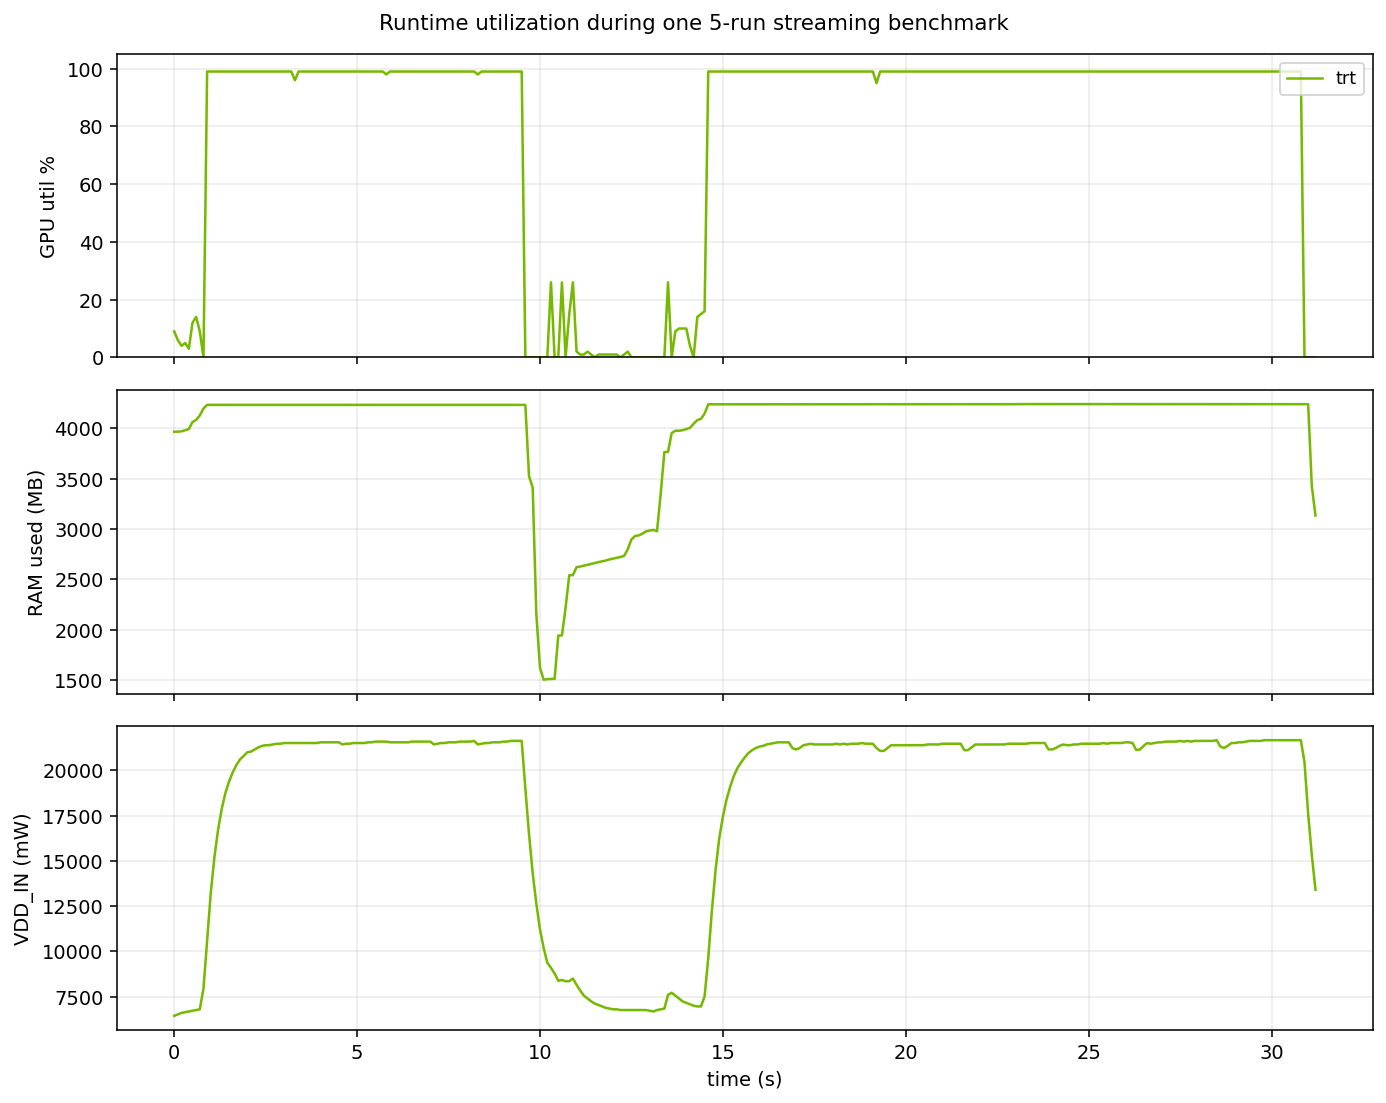
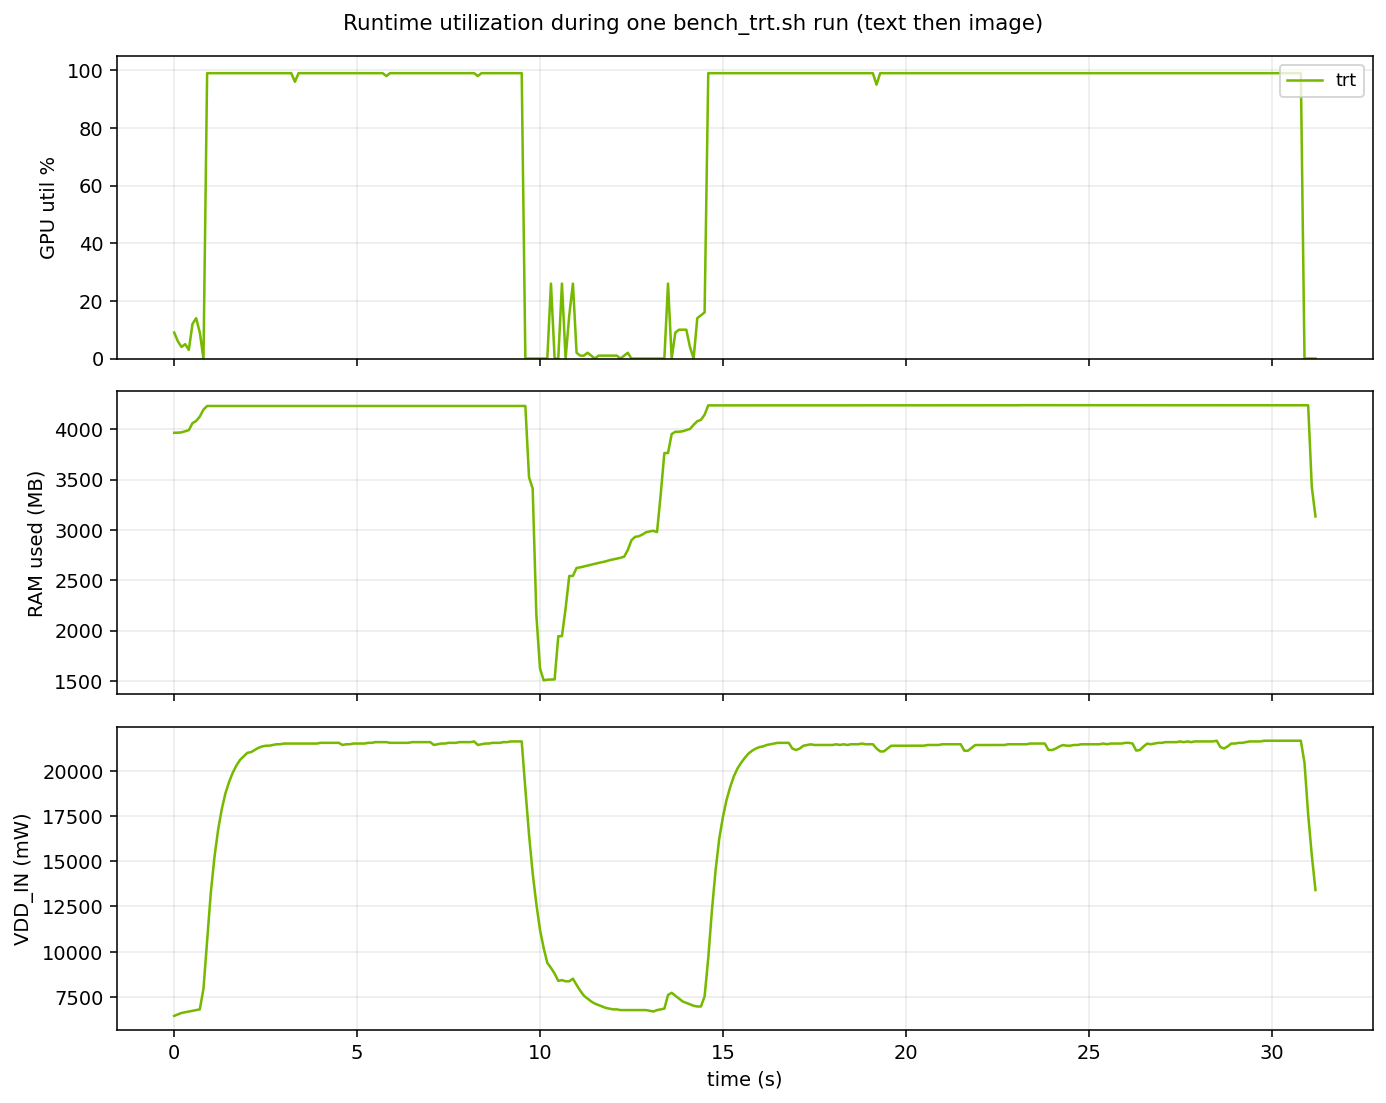
final update

diff --git a/vlm-benchmarks/index.html b/vlm-benchmarks/index.html
@@ -218,7 +218,7 @@
 
         <div class="tldr">
             <strong>TL;DR</strong><br><br>
-            I benchmarked Cosmos-Reason2-2B, NVIDIA's physical-AI VLM, across three inference runtimes on a Jetson Orin Nano 8 GB: <strong>llama.cpp</strong>, <strong>vLLM</strong>, and <strong>TensorRT Edge-LLM</strong>. Same model, same quantization class, same hardware. llama.cpp worked out of the box. vLLM needed a community-quantized W4A16 checkpoint and a vision-encoder profile cap to fit under the Orin Nano's contiguous-allocation ceiling. TRT-Edge-LLM took the most work: a kernel-level CMA parameter plus an ONNX graph rewrite to split the LM head MatMul. As far as I can tell this is the first public report of Cosmos-Reason2-2B running on TRT-Edge-LLM on an Orin Nano — NVIDIA's own supported matrix pairs this combination with Thor, not Orin.<br><br>
+            I benchmarked Cosmos-Reason2-2B, NVIDIA's physical-AI VLM, across three inference runtimes on a Jetson Orin Nano 8 GB: <strong>llama.cpp</strong>, <strong>vLLM</strong>, and <strong>TensorRT Edge-LLM</strong>. Same model, same quantization class, same hardware. llama.cpp worked out of the box. vLLM needed a community-quantized W4A16 checkpoint and a vision-encoder profile cap to fit under the Orin Nano's contiguous-allocation ceiling. TRT Edge-LLM took the most work: a kernel-level CMA parameter plus an ONNX graph rewrite to split the LM head MatMul. As far as I can tell this is the first public report of Cosmos-Reason2-2B running on TRT Edge-LLM on an Orin Nano — NVIDIA's own supported matrix pairs this combination with Thor, not Orin.<br><br>
             Final numbers: <strong>TRT Edge-LLM 60 TPS, vLLM 56 TPS, llama.cpp 38 TPS</strong> on Cosmos-Reason2-2B at W4A16 / Q4_K_M. TRT wins decode throughput and uses the least memory (4.3 GB peak vs vLLM's 6.9 GB). vLLM wins image first-token latency when warm (75 ms vs TRT's 420 ms). llama.cpp wins context length (4096 vs 1024) and has a cleaner startup story.<br><br>
             <strong>Code:</strong> <a href="https://github.com/hokwangchoi/jetson-orin-nano-benchmarks">github.com/hokwangchoi/jetson-orin-nano-benchmarks</a>
         </div>
@@ -674,7 +674,7 @@ sudo reboot</code></pre>
 
         <h3>Vendor support matrices are lower bounds, not ceilings</h3>
         <p>
-            NVIDIA's Jetson AI Lab tutorial pairs Cosmos-Reason2 <em>8B</em> with Thor (128 GB unified memory) and pairs Orin Nano with Qwen3-4B-Instruct — a text-only LLM, not a VLM. There's no official recipe anywhere for Cosmos-Reason2-2B on Orin Nano via TRT-Edge-LLM. That absence is informative, but it isn't a ban. With a kernel-level CMA change and an ONNX graph rewrite, the combination works and performs competitively. "Not officially supported" on an edge platform often means "works after you do the platform-level work to make it work" — not "actually impossible."
+            NVIDIA's Jetson AI Lab tutorial pairs Cosmos-Reason2 <em>8B</em> with Thor (128 GB unified memory) and pairs Orin Nano with Qwen3-4B-Instruct — a text-only LLM, not a VLM. There's no official recipe anywhere for Cosmos-Reason2-2B on Orin Nano via TRT Edge-LLM. That absence is informative, but it isn't a ban. With a kernel-level CMA change and an ONNX graph rewrite, the combination works and performs competitively. "Not officially supported" on an edge platform often means "works after you do the platform-level work to make it work" — not "actually impossible."
         </p>
 
         <h3>Watch the allocator, not the model</h3>

diff --git a/vlm-benchmarks/scripts/plot_tegrastats.py b/vlm-benchmarks/scripts/plot_tegrastats.py
@@ -105,7 +105,7 @@ def main():
     axes[2].grid(alpha=0.25)
 
     fig.suptitle(
-        "Runtime utilization during one 5-run streaming benchmark",
+        "Runtime utilization during one bench_trt.sh run (text then image)",
         fontsize=11,
     )
     fig.tight_layout()

diff --git a/vlm-benchmarks/README.md b/vlm-benchmarks/README.md
@@ -158,15 +158,15 @@ known-clean state so numbers are comparable across runs and runtimes.
 
 | Phase | Where     | What                                                           | Status |
 |-------|-----------|----------------------------------------------------------------|--------|
-| 0     | Host      | AWQ quantize + ONNX export for TRT-Edge-LLM (on A40 pod, ~30 min). See [`host/README.md`](./host/README.md). | ✅ |
+| 0     | Host      | AWQ quantize + ONNX export for TRT Edge-LLM (on A40 pod, ~30 min). See [`host/README.md`](./host/README.md). | ✅ |
 | 1a    | Orin Nano | Verify JetPack ≥ 6.2.2 (L4T ≥ 36.5.0). Upgrade via apt if on 6.2.1. See `device/README.md`. | ✅ |
-| 1b    | Orin Nano | Build TRT-Edge-LLM C++ runtime + plugin library. | ✅ |
+| 1b    | Orin Nano | Build TRT Edge-LLM C++ runtime + plugin library. | ✅ |
 | 1c    | Orin Nano | Download Cosmos-Reason2-2B GGUF, merge splits, quantize to Q4_K_M. | ✅ |
 | 2a    | Orin Nano | llama.cpp — launch server, run text + image benchmarks, concurrency sweep. | ✅ |
 | 2b    | Orin Nano | vLLM — launch server with Embedl W4A16, run benchmark suite. | ✅ |
 | 2c    | Orin Nano | TRT Edge-LLM — kernel CMA setup (`cma=950M`), ONNX graph surgery (split LM head), engine build, text + image benchmarks. | ✅ |
-| 3     | Orin Nano | Capture Nsight profiles for the same prompt on each runtime. | ⏳ |
-| 4     | Anywhere  | Plots, roofline analysis, writeup. | ⏳ |
+| 3     | Orin Nano | Profiling — Nsight Systems timeline for TRT, tegrastats utilization trace for TRT. See blog §11. vLLM/llama.cpp Nsight deferred (docker containers without `--pid=host` + nsys 2024.5 limitation). | ✅ (TRT only) |
+| 4     | Anywhere  | Writeup in `index.html`; tegrastats plot via `scripts/plot_tegrastats.py`. Roofline analysis deferred. | ✅ |
 
 ## Reproducing
 
